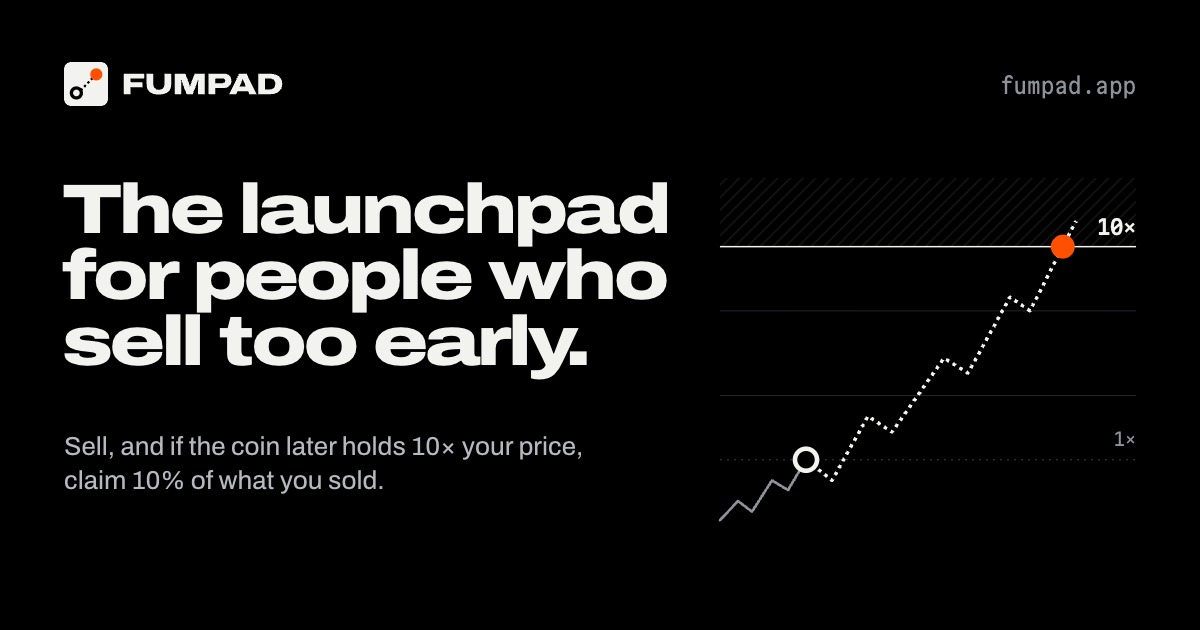
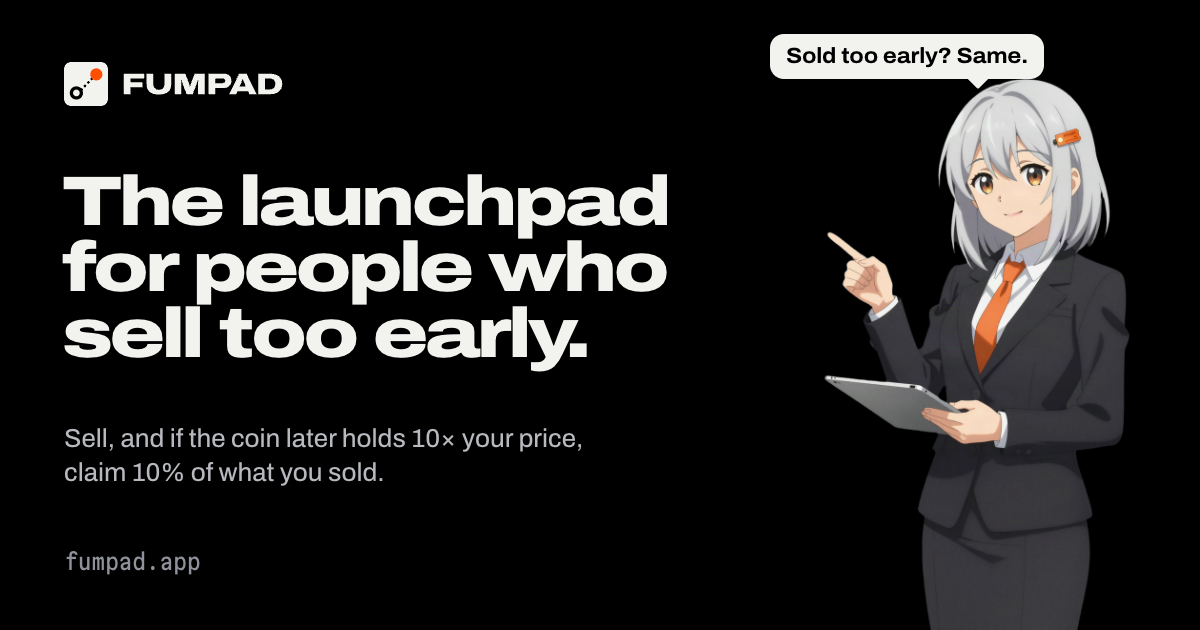
waiting room: Fumi as greeter (anime phase 2, W1)
Fumi on top of the clean waiting room, one per screen, never over the
form, buttons, charts or numbers:
- hero: waving next to the headline (under the lede on phones), leaves
  with the intro before the chart's run is drawn
- Fair by design: thinking, under the section head
- waitlist: pointing at it, cheering with sparkles after signup (same
  reserved box, no layout shift)
New prelaunch/Greeter (bubble slot + Fumi from @/design/anime, height
via --greet-h). Legal pages untouched.

Share card: new og-fumi scene in the brand pipeline (Fumi pointing from
the right corner, chart dropped); soon/opengraph-image.png and
twitter-image.png are og/fumpad-og-fumi-dark.png (1200x630, 203 KB).
Screens: marketing/web-screens/W1/.

diff --git a/app/src/components/prelaunch/Launch.tsx b/app/src/components/prelaunch/Launch.tsx
@@ -1,7 +1,8 @@
 "use client";
 
-import { useEffect, useState, useSyncExternalStore } from "react";
+import { useCallback, useEffect, useState, useSyncExternalStore } from "react";
 import { IconX } from "@/design/components/Icons";
+import { Greeter } from "./Greeter";
 import { X_URL } from "./links";
 import s from "./Sections.module.css";
 
@@ -66,13 +67,15 @@ function Countdown({ at }: { at: number }) {
 
 type State = { kind: "idle" } | { kind: "sending" } | { kind: "done"; what: string; email: boolean } | { kind: "error"; msg: string };
 
-function Waitlist() {
+function Waitlist({ onDone }: { onDone: () => void }) {
   const [value, setValue] = useState("");
   const [state, setState] = useState<State>({ kind: "idle" });
   const [trap, setTrap] = useState("");
   useEffect(() => {
-    if (state.kind === "done") document.getElementById("waitlist-done")?.focus();
-  }, [state.kind]);
+    if (state.kind !== "done") return;
+    document.getElementById("waitlist-done")?.focus();
+    onDone();
+  }, [state.kind, onDone]);
 
   if (state.kind === "done") {
     return (
@@ -160,15 +163,27 @@ function Waitlist() {
 }
 
 export function Launch() {
+  // Fumi points at the waitlist, then cheers once you're on it (same box: no layout shift).
+  const [joined, setJoined] = useState(false);
+  const onDone = useCallback(() => setJoined(true), []);
   return (
     <div className={s.launch}>
-      <h2 id="launch-title" className={s.launchTitle}>
-        Coming to Solana mainnet.
-      </h2>
-      <p className={s.launchLede}>Launching soon. Get one message when it opens, or follow along on X.</p>
-      {LAUNCH_AT !== null && <Countdown at={LAUNCH_AT} />}
+      <div className={s.launchTop}>
+        <div className={s.launchCopy}>
+          <h2 id="launch-title" className={s.launchTitle}>
+            Coming to Solana mainnet.
+          </h2>
+          <p className={s.launchLede}>Launching soon. Get one message when it opens, or follow along on X.</p>
+          {LAUNCH_AT !== null && <Countdown at={LAUNCH_AT} />}
+        </div>
+        {joined ? (
+          <Greeter pose="cheering" quip="You’re in! See you at launch." className={s.launchFumi} />
+        ) : (
+          <Greeter pose="pointing" quip="One message at launch. That’s it." pop={false} className={s.launchFumi} />
+        )}
+      </div>
       <div className={s.launchActions}>
-        <Waitlist />
+        <Waitlist onDone={onDone} />
         <a href={X_URL} className={s.xCta} target="_blank" rel="noopener noreferrer">
           <IconX width={18} height={18} aria-hidden="true" />
           Follow @Fumblepad

diff --git a/app/src/components/prelaunch/Greeter.tsx b/app/src/components/prelaunch/Greeter.tsx
@@ -1,0 +1,43 @@
+import { Fumi, SpeechBubble, type FumiPose } from "@/design/anime";
+import { cx } from "@/design/cx";
+import g from "./Greeter.module.css";
+
+/**
+ * Fumi as the waiting room's greeter: one short bubble above her head, her figure below. One per
+ * screen (the hero, the rules, the waitlist sit a full section apart), never over a form, a button,
+ * a chart or a number; the page around her carries the meaning, so she is decorative.
+ *
+ * Height comes from the caller's class (`--greet-h`, any CSS length) so she can scale with the
+ * viewport; the box and the bubble slot are reserved up front, so a pose or line swap never shifts
+ * the layout. All motion is the kit's CSS and stops under prefers-reduced-motion.
+ */
+export function Greeter({
+  pose,
+  quip,
+  className,
+  fx = true,
+  idle,
+  pop = true,
+  hint = 240,
+}: {
+  pose: FumiPose;
+  quip: string;
+  className?: string;
+  fx?: boolean;
+  idle?: boolean;
+  pop?: boolean;
+  /** Typical rendered height in px; only picks the WebP width (360 / 720). */
+  hint?: number;
+}) {
+  return (
+    <div className={cx(g.greeter, className)} data-pose={pose}>
+      <div className={g.slot}>
+        {/* key: a new line pops in again */}
+        <SpeechBubble key={quip} tail="bottom-right" pop={pop} className={g.quip}>
+          {quip}
+        </SpeechBubble>
+      </div>
+      <Fumi key={pose} pose={pose} size={hint} fx={fx} pop={pop} idle={idle} className={g.fumi} />
+    </div>
+  );
+}

diff --git a/app/src/components/prelaunch/Hero.tsx b/app/src/components/prelaunch/Hero.tsx
@@ -2,6 +2,7 @@
 
 import { useEffect, useLayoutEffect, useRef, useState } from "react";
 import { r1, HERO_CROSS, HERO_EXAMPLE, HERO_SELL, clamp, ease, fix, heroPrice, int, lerp, prog, sample, smooth } from "./math";
+import { Greeter } from "./Greeter";
 import s from "./Hero.module.css";
 
 /**
@@ -238,12 +239,16 @@ export function Hero() {
     <section ref={root} className={s.hero} aria-labelledby="hero-title">
       <div ref={stage} className={s.stage} data-beat="-1" data-money="0">
         <div className={s.intro} data-intro>
-          <h1 id="hero-title" className={s.title}>
-            The launchpad for people who sell too early.
-          </h1>
-          <p className={s.lede}>
-            Sell a FUMPAD coin, here or on any app. If it later holds 10× your sell price, you claim 10% of the tokens you sold.
-          </p>
+          <div>
+            <h1 id="hero-title" className={s.title}>
+              The launchpad for people who sell too early.
+            </h1>
+            <p className={s.lede}>
+              Sell a FUMPAD coin, here or on any app. If it later holds 10× your sell price, you claim 10% of the tokens you sold.
+            </p>
+          </div>
+          {/* The greeter leaves with the headline, before the chart's run is drawn. */}
+          <Greeter pose="waving" quip="Hi, fumbler! Sold too early? Same." idle className={s.greeter} hint={300} />
         </div>
 
         <div className={s.readout} data-readout aria-hidden="true">

diff --git a/app/src/components/prelaunch/Sections.module.css b/app/src/components/prelaunch/Sections.module.css
@@ -45,6 +45,17 @@
   color: var(--ink-2);
   text-wrap: pretty;
 }
+/* Fumi in a section head, under the lede: right-aligned on phones, left column on wide screens. */
+.greeter {
+  --greet-h: clamp(132px, 20svh, 176px);
+  margin: clamp(8px, 1.4vw, 24px) 0 0 auto;
+}
+@media (min-width: 1100px) {
+  .greeter {
+    --greet-h: min(clamp(220px, 17vw, 360px), 40svh);
+    margin-right: 0;
+  }
+}
 .body {
   display: grid;
   gap: clamp(28px, 3vw, 56px);
@@ -578,6 +589,31 @@
   grid-column: 1 / -1;
   display: grid;
   gap: clamp(20px, 2.4vw, 44px);
+}
+/* Title and lede left; Fumi right of them on wide screens, pointing left/down at the waitlist,
+   under the lede on phones. She never sits in the actions row. */
+.launchTop {
+  display: grid;
+  gap: clamp(20px, 2.4vw, 44px);
+}
+.launchCopy {
+  display: grid;
+  gap: clamp(20px, 2.4vw, 44px);
+  min-width: 0;
+}
+.launchFumi {
+  --greet-h: clamp(132px, 20svh, 176px);
+  margin: -8px 0 0 auto;
+}
+@media (min-width: 900px) {
+  .launchTop {
+    grid-template-columns: minmax(0, 1fr) auto;
+    align-items: end;
+  }
+  .launchFumi {
+    --greet-h: min(clamp(240px, 22vw, 440px), 46svh);
+    margin: 0;
+  }
 }
 .launchTitle {
   font-size: clamp(48px, 10.5vw, 260px);

diff --git a/app/src/components/prelaunch/Greeter.module.css b/app/src/components/prelaunch/Greeter.module.css
@@ -1,0 +1,31 @@
+/* Fumi the greeter: a bubble slot over her head, then her figure. The caller sets --greet-h.
+   Ink bubble, ink effects; her own orange is her art. Nothing here sits over text or controls. */
+
+.greeter {
+  --greet-h: 200px;
+  display: flex;
+  flex-direction: column;
+  align-items: flex-end;
+  width: max-content;
+  max-width: 100%;
+  pointer-events: none;
+}
+/* Room for a two-line bubble, always, so a new line never moves her. */
+.slot {
+  display: flex;
+  align-items: flex-end;
+  justify-content: flex-end;
+  min-height: 3.6em;
+  margin-bottom: 10px;
+  font-size: var(--fs-md, 15px);
+}
+.quip {
+  /* tail sits over her head (head centre ≈ 42% from the figure's right edge) */
+  margin-right: max(0px, calc(var(--greet-h) * 0.75 * 0.42 - 30px));
+  max-width: 17ch;
+  animation-delay: 240ms;
+}
+/* The kit sizes her from --fumi-h (inline); the greeter's height wins so she scales with the page. */
+.fumi {
+  --fumi-h: var(--greet-h) !important;
+}

diff --git a/app/src/components/prelaunch/Hero.module.css b/app/src/components/prelaunch/Hero.module.css
@@ -22,6 +22,23 @@
   z-index: 3;
   will-change: transform, opacity;
 }
+/* Fumi waves from the right of the headline (wide) or under the lede (narrow), clear of the chart. */
+.greeter {
+  --greet-h: clamp(108px, 17svh, 156px);
+  margin: 4px 0 0 auto;
+}
+@media (min-width: 900px) {
+  .intro {
+    display: grid;
+    grid-template-columns: minmax(0, 1fr) auto;
+    column-gap: clamp(16px, 2vw, 48px);
+    align-items: start;
+  }
+  .greeter {
+    --greet-h: min(clamp(220px, 23vw, 460px), 44svh);
+    margin: 0;
+  }
+}
 .title {
   font-size: clamp(42px, 7.6vw, 168px);
   line-height: 0.9;
@@ -502,6 +519,10 @@
   }
   .intro {
     order: 0;
+  }
+  /* unpinned, the readout follows the intro: keep Fumi a clear step away from its number */
+  .greeter {
+    margin-bottom: 32px;
   }
   .plot {
     order: 2;

diff --git a/app/src/app/soon/page.tsx b/app/src/app/soon/page.tsx
@@ -1,3 +1,4 @@
+import { Greeter } from "@/components/prelaunch/Greeter";
 import { Hero } from "@/components/prelaunch/Hero";
 import { Launch } from "@/components/prelaunch/Launch";
 import { PoolFill } from "@/components/prelaunch/PoolFill";
@@ -179,6 +180,7 @@ export default function WaitingRoom() {
               Fair by design.
             </h2>
             <p className={s.lede}>The obvious tricks don&rsquo;t pay. Tokens also need 10 minutes in your wallet before a sell counts.</p>
+            <Greeter pose="thinking" quip="Clever trick? Already covered." className={s.greeter} />
           </header>
           <Reveal className={`${s.body} ${s.fair}`}>
             <figure className={s.rule}>
